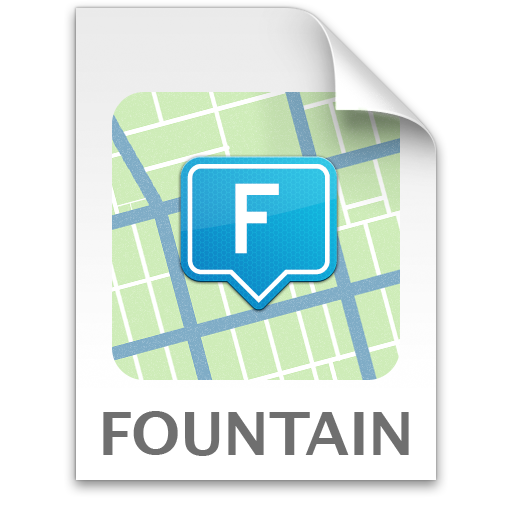
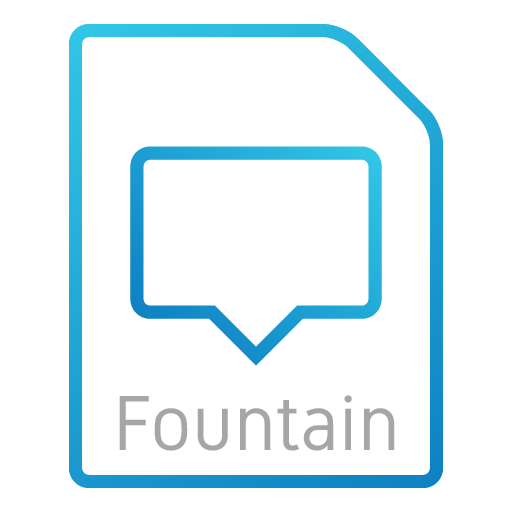
Use new assets on site

diff --git a/index.html b/index.html
@@ -19,14 +19,6 @@
 	<link rel="stylesheet" href="assets/css/main.css" />
 	<!--[if lte IE 9]><link rel="stylesheet" href="assets/css/ie9.css" /><![endif]-->
 	<!--[if lte IE 8]><link rel="stylesheet" href="assets/css/ie8.css" /><![endif]-->
-	<style>
-		img.circle {
-			border: solid 1px;
-			border-color: #ddd;
-			border-radius: 100%;
-			margin-bottom: 32px
-		}
-	</style>
 </head>
 
 <body>
@@ -37,9 +29,9 @@
 		<!-- Header -->
 		<header id="header" class="alt">
 			<span class="logo">
-				<img src="images/wraparound.svg" alt="" width="300" height="300"/>
+				<img src="images/wraparound.svg" alt="" width="300" height="300" />
 			</span>
-			<p>A Fountain export tool, with some extras...
+			<p>Building a Fountain/Wrap export tool, with some extras...
 			</p>
 		</header>
 
@@ -84,70 +76,76 @@
 						</ul>
 					</div>
 					<span class="image">
-						<img src="images/fountain.png" />
+						<img src="images/fountain.png" width="362" height="362" />
 					</span>
 				</div>
 			</section>
 
 			<!-- What is Wrap -->
-			<section id="wrap" class="main special">
-				<header class="major">
-					<h2>What is Wrap?</h2>
-				</header>
-				<img src="images/abstract.svg" width="193.78" class="circle" />
-				<p class="content">Wrap is an
-					<span class="icon style2 fa-code-fork">&nbsp;open&nbsp;source</span> command line tool that is able to convert Fountain and Wrap files into a correctly formatted
-					screen-&nbsp;or&nbsp;stageplay as an HTML or PDF. Fountain is an awesome format to write screenplays in English, Wrap
-					builds upon this to add support for different languages and stageplays whilst still fully supporting normal Fountain
-					files. All this in a FOSS package that you can use straight from the commandline. </p>
+			<section id="wrap" class="main">
+				<div class="spotlight">
+					<div class="content">
+						<header class="major">
+							<h2>What is Wrap?</h2>
+						</header>
+						<p>Wrap is an
+							<span class=" icon style2 fa-code-fork ">&nbsp;open&nbsp;source</span> command line tool that is able to convert Fountain and Wrap files into a correctly formatted
+							screen-&nbsp;or&nbsp;stageplay as an HTML or PDF. Fountain is an awesome format to write screenplays in English, Wrap
+							builds upon this to add support for different languages and stageplays whilst still fully supporting normal Fountain
+							files. All this in a FOSS package that you can use straight from the commandline. </p>
+					</div>
+					<span class="image">
+						<img src="images/wrap.png" width="362" height="362" />
+					</span>
+				</div>
 			</section>
 
 			<!-- Features -->
-			<section id="features" class="main special">
-				<header class="major">
+			<section id="features " class="main special ">
+				<header class="major ">
 					<h2>What are Wrap's features?</h2>
 				</header>
 				<p>Wrap, for now, has three things to offer:</p>
-				<ul class="features">
+				<ul class="features ">
 					<li>
-						<span class="icon major style5 fa-terminal"></span>
+						<span class="icon major style5 fa-terminal "></span>
 						<h3>Command line tool</h3>
 						<p>Provides a simple command line interface as a single file binary for the three main platforms:
-							<span class="icon style5 fa-linux">&nbsp;Linux</span>,
-							<span class="icon style2 fa-windows">&nbsp;Windows</span> and
-							<span class="icon fa-apple">&nbsp;macOS</span>.</p>
+							<span class="icon style5 fa-linux ">&nbsp;Linux</span>,
+							<span class="icon style2 fa-windows ">&nbsp;Windows</span> and
+							<span class="icon fa-apple ">&nbsp;macOS</span>.</p>
 					</li>
 					<li>
-						<span class="icon major style3 fa-file-code-o"></span>
+						<span class="icon major style3 fa-file-code-o "></span>
 						<h3>HTML export</h3>
 						<p>HTML is understood by almost every computer there is and can, obviously, also be used to share your script with the
 							rest of the world on the
-							<span class="icon style3 fa-sitemap">&nbsp;world&nbsp;wide&nbsp;web</span>.</p>
+							<span class="icon style3 fa-sitemap ">&nbsp;world&nbsp;wide&nbsp;web</span>.</p>
 					</li>
 					<li>
-						<span class="icon major style1 fa-file-pdf-o"></span>
+						<span class="icon major style1 fa-file-pdf-o "></span>
 						<h3>PDF export</h3>
 						<p>The most popular archival and interchange format there is. Assures that your work can be viewed in the future, be identical
 							everywhere and be brought onto
-							<span class="icon style1 fa-file">&nbsp;paper</span>.</p>
+							<span class="icon style1 fa-file ">&nbsp;paper</span>.</p>
 					</li>
 				</ul>
 			</section>
 
 			<!-- Get Started -->
-			<section id="start" class="main special">
-				<header class="major">
+			<section id="start " class="main special ">
+				<header class="major ">
 					<h2>Get started</h2>
 					<p>Wrap is currently under full development, however
 						<br> there is already an early (and rather stable) version availabe:</p>
 				</header>
-				<footer class="major">
-					<ul class="actions">
+				<footer class="major ">
+					<ul class="actions ">
 						<li>
-							<a href="https://github.com/Wraparound/wrap/releases/latest" class="button special">Download</a>
+							<a href="https://github.com/Wraparound/wrap/releases/latest " class="button special ">Download</a>
 						</li>
 						<li>
-							<a href="https://github.com/Wraparound/wrap/wiki" class="button">Learn more about Wrap</a>
+							<a href="https://github.com/Wraparound/wrap/wiki " class="button ">Learn more about Wrap</a>
 						</li>
 					</ul>
 				</footer>
@@ -156,23 +154,23 @@
 		</div>
 
 		<!-- Footer -->
-		<footer id="footer">
+		<footer id="footer ">
 			<p>Wraparound is being developed with
-				<span class="icon style1 fa-heart"></span> in Berlaar, Belgium.</p>
-			<p class="copyright">Design based on Stellar by
-				<a href="https://html5up.net">HTML5 UP</a>.</p>
+				<span class="icon style1 fa-heart "></span> in Berlaar, Belgium.</p>
+			<p class="copyright ">Design based on Stellar by
+				<a href="https://html5up.net ">HTML5 UP</a>.</p>
 		</footer>
 
 	</div>
 
 	<!-- Scripts -->
-	<script src="assets/js/jquery.min.js"></script>
-	<script src="assets/js/jquery.scrollex.min.js"></script>
-	<script src="assets/js/jquery.scrolly.min.js"></script>
-	<script src="assets/js/skel.min.js"></script>
-	<script src="assets/js/util.js"></script>
-	<!--[if lte IE 8]><script src="assets/js/ie/respond.min.js"></script><![endif]-->
-	<script src="assets/js/main.js"></script>
+	<script src="assets/js/jquery.min.js "></script>
+	<script src="assets/js/jquery.scrollex.min.js "></script>
+	<script src="assets/js/jquery.scrolly.min.js "></script>
+	<script src="assets/js/skel.min.js "></script>
+	<script src="assets/js/util.js "></script>
+	<!--[if lte IE 8]><script src="assets/js/ie/respond.min.js "></script><![endif]-->
+	<script src="assets/js/main.js "></script>
 
 </body>
 
